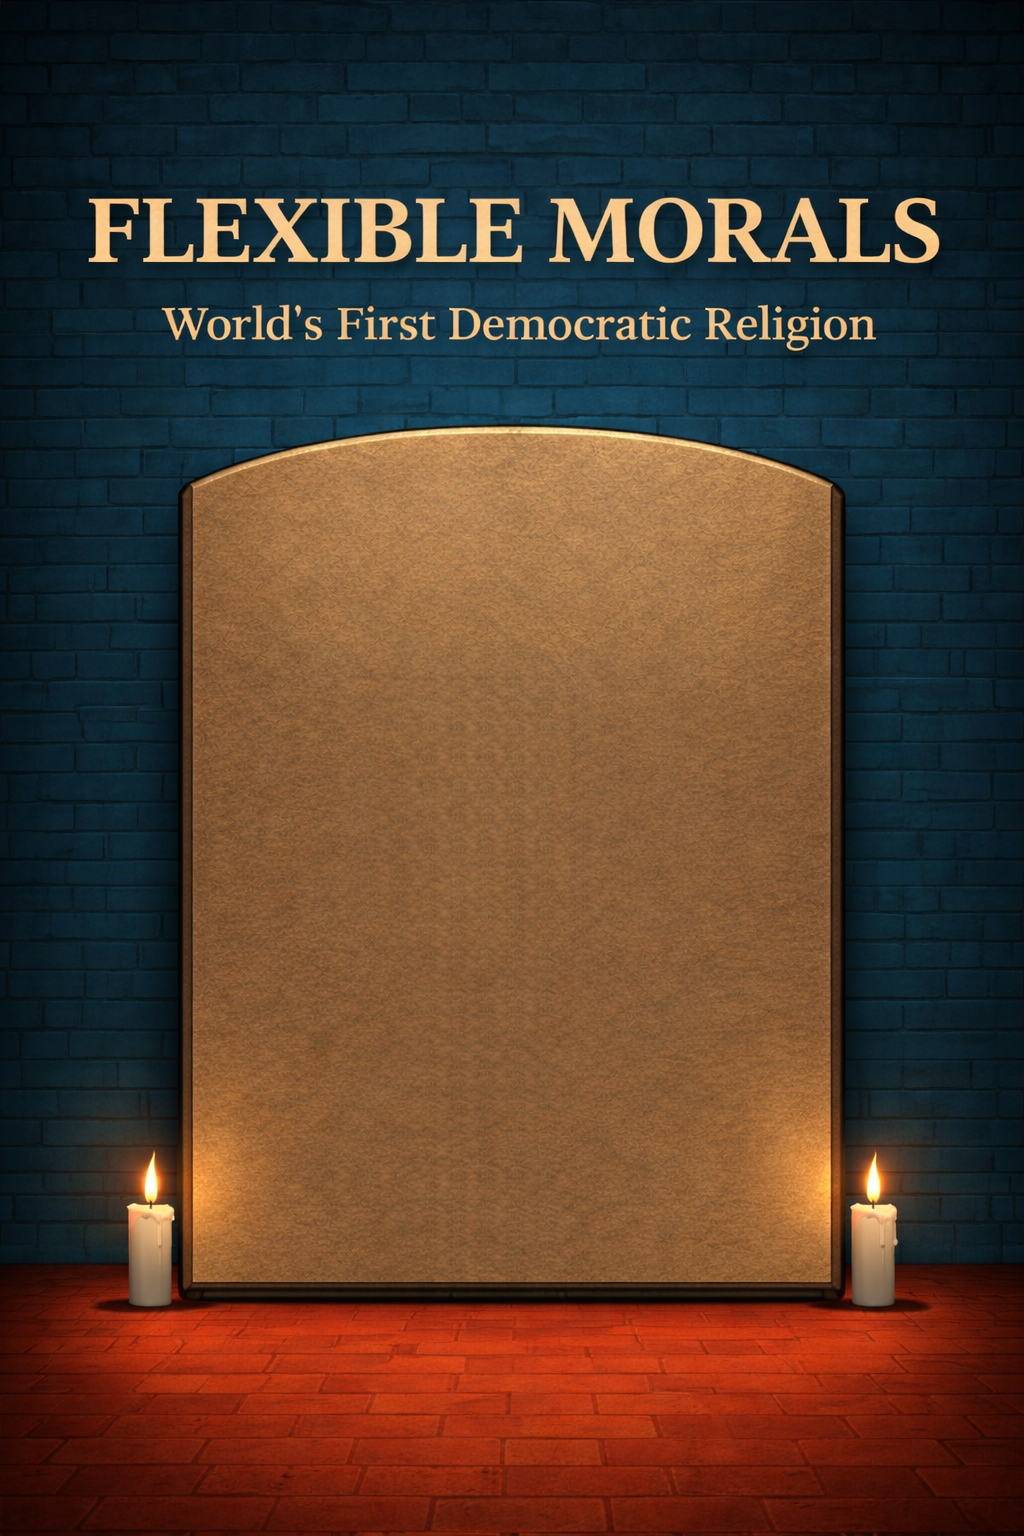
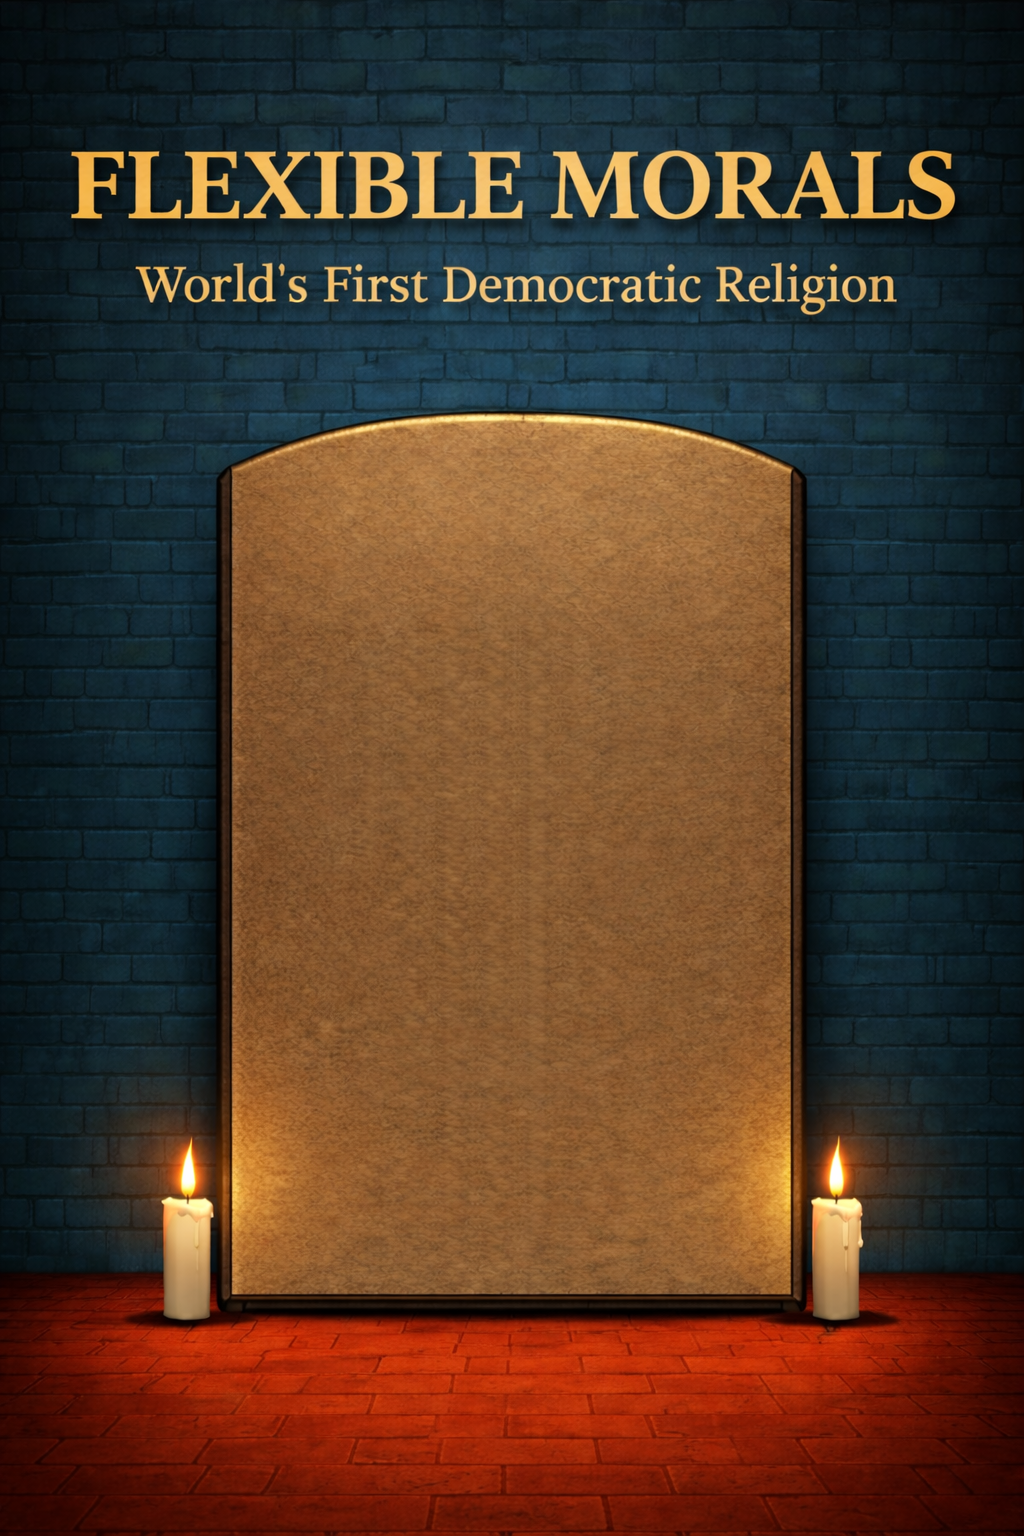
Mobile home redesign: wheel carousel, countdown timer, bigger UI
- Wheel carousel: commandments scroll with fade effect on tablet
- Live countdown: days/hours/minutes/seconds until moral reset
- Bigger hamburger menu, Vote/Live Chat buttons, commandment text
- New mobile background image
- Commandments positioned within tablet arch boundaries

diff --git a/frontend/src/pages/Home.tsx b/frontend/src/pages/Home.tsx
@@ -44,11 +44,13 @@ export default function Home() {
   const [showInfoPopup, setShowInfoPopup] = useState(false);
   const [showDonationPopup, setShowDonationPopup] = useState(false);
   const [daysLeft, setDaysLeft] = useState<number>(0);
+  const [timeLeft, setTimeLeft] = useState({ days: 0, hours: 0, minutes: 0, seconds: 0 });
   const [showPrayerHands, setShowPrayerHands] = useState(false);
   const [showCoins, setShowCoins] = useState(false);
   const [profilePopup, setProfilePopup] = useState<{ username: string; x: number; y: number } | null>(null);
 
   const chatBoxRef = useRef<ChatBoxHandle>(null);
+  const wheelContainerRef = useRef<HTMLDivElement>(null);
   const navigate = useNavigate();
   const { donorStatuses, loadDonorStatuses, getDonorStatus } = useDonor();
   const { user } = useAuth();
@@ -63,13 +65,22 @@ export default function Home() {
     [posts]
   );
 
-  // ✅ Countdown logic
+  // ✅ Countdown logic — ticks every second for days/hours/minutes/seconds
   useEffect(() => {
-    const today = new Date();
-    const endOfMonth = new Date(today.getFullYear(), today.getMonth() + 1, 0);
-    const diffTime = endOfMonth.getTime() - today.getTime();
-    const diffDays = Math.ceil(diffTime / (1000 * 60 * 60 * 24));
-    setDaysLeft(diffDays);
+    const calcTimeLeft = () => {
+      const now = new Date();
+      const endOfMonth = new Date(now.getFullYear(), now.getMonth() + 1, 1, 0, 0, 0); // midnight of 1st next month
+      const diff = endOfMonth.getTime() - now.getTime();
+      const days = Math.floor(diff / (1000 * 60 * 60 * 24));
+      const hours = Math.floor((diff / (1000 * 60 * 60)) % 24);
+      const minutes = Math.floor((diff / (1000 * 60)) % 60);
+      const seconds = Math.floor((diff / 1000) % 60);
+      setDaysLeft(days);
+      setTimeLeft({ days, hours, minutes, seconds });
+    };
+    calcTimeLeft();
+    const interval = setInterval(calcTimeLeft, 1000);
+    return () => clearInterval(interval);
   }, []);
 
   // ✅ Prayer hands animation every 30 seconds
@@ -130,6 +141,63 @@ export default function Home() {
       }
     }
   }, [posts, loadDonorStatuses]);
+
+  // Wheel carousel scroll handler for mobile commandments
+  useEffect(() => {
+    if (!isMobile || loading || posts.length === 0) return;
+    const container = wheelContainerRef.current;
+    if (!container) return;
+
+    let rafId: number;
+
+    const updateWheel = () => {
+      const items = container.querySelectorAll('.wheel-item') as NodeListOf<HTMLElement>;
+      const containerRect = container.getBoundingClientRect();
+      const containerHeight = containerRect.height;
+      // Only bottom fade zone — items at top are fully visible, bottom 20% fades out.
+      // Items that scroll above the container are clipped by overflow + CSS mask.
+      const bottomFade = containerHeight * 0.30;
+      const safeBottom = containerRect.bottom - bottomFade;
+
+      items.forEach((item) => {
+        const itemRect = item.getBoundingClientRect();
+        const itemCenter = itemRect.top + itemRect.height / 2;
+
+        let t = 0; // 0 = fully visible, 1 = fully faded
+        if (itemCenter > safeBottom) {
+          t = Math.min((itemCenter - safeBottom) / bottomFade, 1);
+        }
+
+        const scale = 1 - t * 0.3;
+        const opacity = 1 - t * 0.95;
+        item.style.transform = `scale(${scale})`;
+        item.style.opacity = `${Math.max(opacity, 0.03)}`;
+      });
+    };
+
+    const onScroll = () => {
+      cancelAnimationFrame(rafId);
+      rafId = requestAnimationFrame(updateWheel);
+    };
+
+    // Set bottom spacer so last items can scroll into the visible zone
+    const containerHeight = container.clientHeight;
+    const bottomSpacer = container.querySelector('.wheel-spacer-bottom') as HTMLElement;
+    if (bottomSpacer) bottomSpacer.style.height = `${containerHeight * 0.5}px`;
+
+    container.addEventListener('scroll', onScroll, { passive: true });
+
+    // Start at top, then apply initial transforms
+    setTimeout(() => {
+      container.scrollTop = 0;
+      updateWheel();
+    }, 50);
+
+    return () => {
+      container.removeEventListener('scroll', onScroll);
+      cancelAnimationFrame(rafId);
+    };
+  }, [isMobile, posts, loading]);
 
   // Sort by votes (highest first) and take top 10
   const sortedPosts = [...posts].sort((a, b) => (b.votes ?? 0) - (a.votes ?? 0));
@@ -207,29 +275,67 @@ export default function Home() {
           <div
             style={{
               position: "absolute",
-              top: "-0.2rem",
-              right: "0.3rem",
+              top: "0.4rem",
+              right: "0.5rem",
               zIndex: 20,
-              textAlign: "right",
+              textAlign: "center",
             }}
           >
+            <div style={{ display: "flex", gap: "6px", justifyContent: "center" }}>
+              {[
+                { val: timeLeft.days, label: "D" },
+                { val: timeLeft.hours, label: "H" },
+                { val: timeLeft.minutes, label: "M" },
+                { val: timeLeft.seconds, label: "S" },
+              ].map((unit) => (
+                <div key={unit.label} style={{ display: "flex", flexDirection: "column", alignItems: "center" }}>
+                  <span
+                    style={{
+                      fontFamily: "'Cinzel', serif",
+                      fontSize: "1.6rem",
+                      fontWeight: 900,
+                      color: "#c8b070",
+                      textShadow: "2px 2px 0px #3a2e0b, -1px -1px 0px #3a2e0b, 1px -1px 0px #3a2e0b, -1px 1px 0px #3a2e0b, 0 0 10px rgba(200, 176, 112, 0.3)",
+                      lineHeight: 1,
+                      minWidth: "1.8rem",
+                    }}
+                  >
+                    {String(unit.val).padStart(2, "0")}
+                  </span>
+                  <span
+                    style={{
+                      fontFamily: "'Cinzel', serif",
+                      fontSize: "0.55rem",
+                      fontWeight: 700,
+                      color: "#c8b070",
+                      textShadow: "1px 1px 0px #3a2e0b",
+                      letterSpacing: "0.08em",
+                      marginTop: "1px",
+                    }}
+                  >
+                    {unit.label}
+                  </span>
+                </div>
+              ))}
+            </div>
             <span
               style={{
                 fontFamily: "'Cinzel', serif",
-                fontSize: "0.55rem",
-                fontWeight: 900,
+                fontSize: "0.65rem",
+                fontWeight: 700,
                 color: "#c8b070",
-                textShadow: "2px 2px 0px #3a2e0b, -1px -1px 0px #3a2e0b, 1px -1px 0px #3a2e0b, -1px 1px 0px #3a2e0b, 0 0 20px rgba(200, 176, 112, 0.3)",
-                letterSpacing: "0.05em",
-                lineHeight: 1,
-                whiteSpace: "nowrap",
+                textShadow: "1px 1px 0px #3a2e0b, 0 0 10px rgba(200, 176, 112, 0.3)",
+                letterSpacing: "0.1em",
+                textTransform: "uppercase" as const,
+                marginTop: "3px",
+                display: "block",
               }}
             >
-              {daysLeft} days until moral reset
+              until moral reset
             </span>
           </div>
-          {/* Commandments — scrollable on the tablet */}
-          <div className="mobile-tablet-overlay">
+          {/* Commandments — wheel carousel on the tablet */}
+          <div className="mobile-tablet-overlay" ref={wheelContainerRef}>
             {!loading && !error && posts.length === 0 && (
               <div className="empty-state" style={{ textAlign: "center", zIndex: 10 }}>
                 <p style={{ fontFamily: "'Cinzel', serif", fontSize: "1.1rem", fontWeight: 700, color: "#3a2e0b", textShadow: "0 0 4px rgba(200,176,112,0.3)", margin: "0 0 8px 0" }}>
@@ -246,7 +352,16 @@ export default function Home() {
             <div className="stone-column">
               {loading && <div className="commandment-border">Loading...</div>}
               {error && <div className="commandment-border">{error}</div>}
-              {!loading && !error && allPosts.map((post, index) => renderCommandment(post, index, true))}
+              {!loading && !error && (
+                <>
+                  {allPosts.map((post, index) => (
+                    <div key={post.id} className="wheel-item">
+                      {renderCommandment(post, index, true)}
+                    </div>
+                  ))}
+                  <div className="wheel-spacer wheel-spacer-bottom" />
+                </>
+              )}
             </div>
           </div>
           {/* Mobile buttons — Vote + Live Chat */}

diff --git a/frontend/src/App.css b/frontend/src/App.css
@@ -1010,23 +1010,23 @@
     flex-direction: row;
     align-items: center;
     justify-content: center;
-    gap: 12px;
+    gap: 16px;
     padding: 2px 16px 4px;
   }
 
   .mobile-buttons-overlay .mobile-btn {
     flex: 1;
-    max-width: 160px;
+    max-width: 200px;
     text-align: center;
     font-family: "Cinzel", serif;
     cursor: pointer;
     background-color: rgba(20, 15, 5, 0.9);
     border: 2px solid #d4af37;
-    border-radius: 8px;
+    border-radius: 10px;
     color: #d4af37;
     font-weight: 600;
-    font-size: 0.9rem;
-    padding: 10px 12px;
+    font-size: 1.2rem;
+    padding: 14px 20px;
     box-shadow: 0 2px 8px rgba(0, 0, 0, 0.5), 0 0 4px rgba(212, 175, 55, 0.3);
   }
 
@@ -1100,29 +1100,25 @@
   .mobile-tablet-overlay {
     position: absolute;
     z-index: 10;
-    top: 12%;
-    bottom: 10%;
-    left: 15%;
-    right: 15%;
+    top: 32%;
+    bottom: 12%;
+    left: 22%;
+    right: 22%;
     padding: 4px 0;
     display: flex;
     flex-direction: column;
     align-items: center;
     overflow-y: auto;
     -webkit-overflow-scrolling: touch;
+    scrollbar-width: none;
+    -ms-overflow-style: none;
+    /* Mask: items visible at top, fade to invisible at bottom edge */
+    -webkit-mask-image: linear-gradient(to bottom, black 0%, black 85%, transparent 100%);
+    mask-image: linear-gradient(to bottom, black 0%, black 85%, transparent 100%);
   }
 
   .mobile-tablet-overlay::-webkit-scrollbar {
-    width: 4px;
-  }
-
-  .mobile-tablet-overlay::-webkit-scrollbar-track {
-    background: transparent;
-  }
-
-  .mobile-tablet-overlay::-webkit-scrollbar-thumb {
-    background: rgba(212, 175, 55, 0.4);
-    border-radius: 2px;
+    display: none;
   }
 
   .mobile-tablet-overlay .stone-column {
@@ -1133,19 +1129,30 @@
     width: 100% !important;
     max-width: none;
     margin-bottom: 0;
-    gap: 0;
+    gap: 6px;
     display: flex;
     flex-direction: column;
-    flex: 1;
-    justify-content: space-between;
+    flex: none;
+  }
+
+  .mobile-tablet-overlay .wheel-item {
+    will-change: transform, opacity;
+    transform-origin: center center;
+    transition: transform 0.08s ease-out, opacity 0.08s ease-out;
+    flex-shrink: 0;
+  }
+
+  .mobile-tablet-overlay .wheel-spacer {
+    flex-shrink: 0;
+    pointer-events: none;
   }
 
   .mobile-tablet-overlay .commandment-border {
     background: rgba(0, 0, 0, 0.6);
     border: 1px solid rgba(212, 175, 55, 0.4);
-    border-radius: 4px;
-    font-size: 0.8rem;
-    padding: 3px 6px;
+    border-radius: 6px;
+    font-size: 1rem;
+    padding: 8px 10px;
     min-height: auto;
     color: #fff;
     text-shadow: 1px 1px 2px rgba(0, 0, 0, 0.9);
@@ -1163,27 +1170,27 @@
   }
 
   .mobile-tablet-overlay .commandment-text {
-    font-size: 0.8rem;
-    line-height: 1.15;
+    font-size: 1rem;
+    line-height: 1.25;
   }
 
   .mobile-tablet-overlay .commandment-number {
     color: #ffd700;
     font-weight: 700;
-    font-size: 0.8rem;
+    font-size: 1rem;
   }
 
   /* Show vote count on mobile, hide username */
   .mobile-tablet-overlay .commandment-border > div:last-child {
     display: flex !important;
-    margin-top: 1px;
+    margin-top: 3px;
     gap: 4px;
     width: 100%;
     justify-content: flex-start;
   }
 
   .mobile-tablet-overlay .vote-count {
-    font-size: 0.65rem;
+    font-size: 0.75rem;
     opacity: 1;
     color: #f0d060;
     font-family: "Cinzel", serif;

diff --git a/frontend/src/components/HamburgerMenu.css b/frontend/src/components/HamburgerMenu.css
@@ -1,29 +1,29 @@
 /* --- Hamburger icon button --- */
 .hamburger-icon {
   position: fixed;
-  top: 0.4rem;
-  left: 0.4rem;
+  top: 0.5rem;
+  left: 0.5rem;
   z-index: 1001;
   background: rgba(20, 15, 5, 0.85);
-  border: 1.5px solid #d4af37;
-  border-radius: 5px;
-  padding: 5px 6px;
+  border: 2px solid #d4af37;
+  border-radius: 7px;
+  padding: 12px 13px;
   display: flex;
   flex-direction: column;
-  gap: 3px;
+  gap: 6px;
   cursor: pointer;
-  min-width: 26px;
-  min-height: 26px;
+  min-width: 50px;
+  min-height: 50px;
   align-items: center;
   justify-content: center;
 }
 
 .hamburger-bar {
   display: block;
-  width: 14px;
-  height: 2px;
+  width: 28px;
+  height: 3.5px;
   background-color: #d4af37;
-  border-radius: 1px;
+  border-radius: 2px;
 }
 
 /* --- Backdrop --- */
